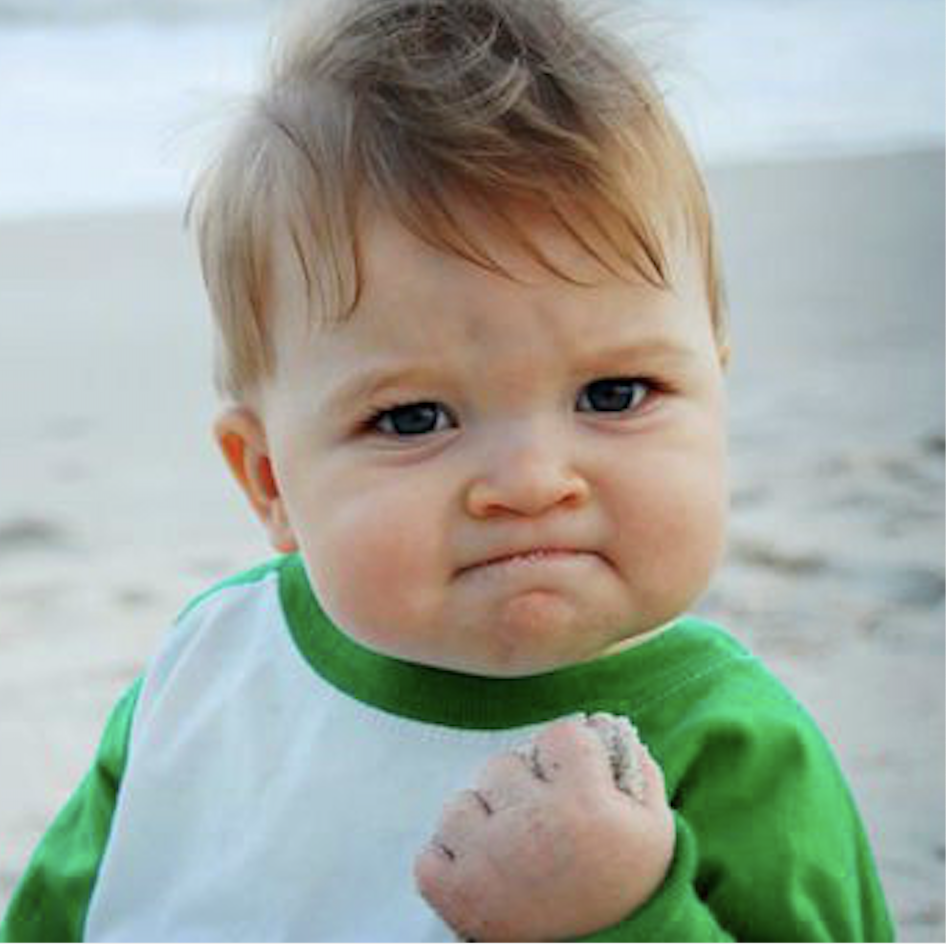
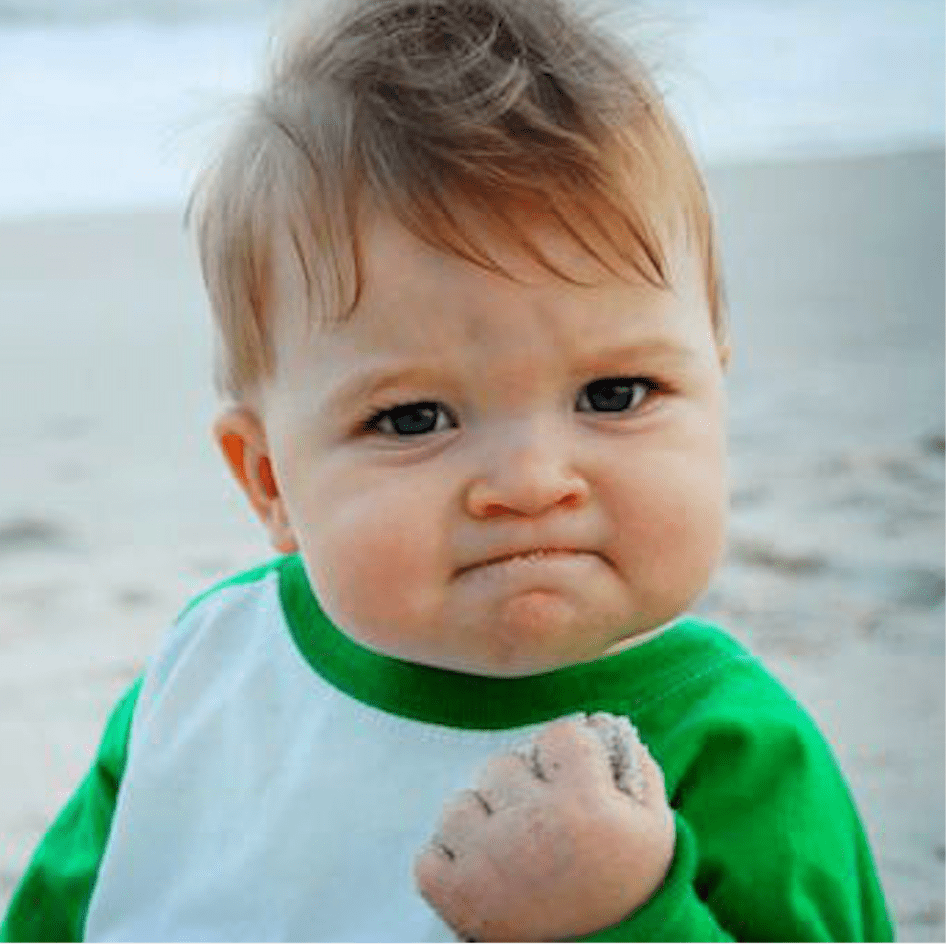
压缩图片

diff --git a/404.html b/404.html
@@ -10,8 +10,8 @@
     <meta property="og:type" content="article">
 
     
-    <meta property="og:image" content="https://zhwjimmy.github.io//img/bg-03.jpeg">
-    <meta property="twitter:image" content="https://zhwjimmy.github.io//img/bg-03.jpeg" />
+    <meta property="og:image" content="https://zhwjimmy.github.io//img/bg.jpeg">
+    <meta property="twitter:image" content="https://zhwjimmy.github.io//img/bg.jpeg" />
     
 
     
@@ -151,7 +151,7 @@
 
 
 
-<header class="intro-header" style="background-image: url('/img/bg-03.jpeg')">
+<header class="intro-header" style="background-image: url('/img/bg.jpeg')">
     <div class="container">
         <div class="row">
             <div class="col-lg-8 col-lg-offset-2 col-md-10 col-md-offset-1 ">

diff --git a/about/index.html b/about/index.html
@@ -10,8 +10,8 @@
     <meta property="og:type" content="article">
 
     
-    <meta property="og:image" content="https://zhwjimmy.github.io//img/bg-03.jpeg">
-    <meta property="twitter:image" content="https://zhwjimmy.github.io//img/bg-03.jpeg" />
+    <meta property="og:image" content="https://zhwjimmy.github.io//img/bg.jpeg">
+    <meta property="twitter:image" content="https://zhwjimmy.github.io//img/bg.jpeg" />
     
 
     
@@ -151,7 +151,7 @@
 
 
 
-<header class="intro-header" style="background-image: url('/img/bg-03.jpeg')">
+<header class="intro-header" style="background-image: url('/img/bg.jpeg')">
     <div class="container">
         <div class="row">
             <div class="col-lg-8 col-lg-offset-2 col-md-10 col-md-offset-1 ">

diff --git a/archive/index.html b/archive/index.html
@@ -10,8 +10,8 @@
     <meta property="og:type" content="article">
 
     
-    <meta property="og:image" content="https://zhwjimmy.github.io//img/bg-03.jpeg">
-    <meta property="twitter:image" content="https://zhwjimmy.github.io//img/bg-03.jpeg" />
+    <meta property="og:image" content="https://zhwjimmy.github.io//img/bg.jpeg">
+    <meta property="twitter:image" content="https://zhwjimmy.github.io//img/bg.jpeg" />
     
 
     
@@ -151,7 +151,7 @@
 
 
 
-<header class="intro-header" style="background-image: url('/img/bg-03.jpeg')">
+<header class="intro-header" style="background-image: url('/img/bg.jpeg')">
     <div class="container">
         <div class="row">
             <div class="col-lg-8 col-lg-offset-2 col-md-10 col-md-offset-1 ">

diff --git a/categories/index.html b/categories/index.html
@@ -10,8 +10,8 @@
     <meta property="og:type" content="article">
 
     
-    <meta property="og:image" content="https://zhwjimmy.github.io//img/bg-03.jpeg">
-    <meta property="twitter:image" content="https://zhwjimmy.github.io//img/bg-03.jpeg" />
+    <meta property="og:image" content="https://zhwjimmy.github.io//img/bg.jpeg">
+    <meta property="twitter:image" content="https://zhwjimmy.github.io//img/bg.jpeg" />
     
 
     
@@ -151,7 +151,7 @@
 
 
 
-<header class="intro-header" style="background-image: url('/img/bg-03.jpeg')">
+<header class="intro-header" style="background-image: url('/img/bg.jpeg')">
     <div class="container">
         <div class="row">
             <div class="col-lg-8 col-lg-offset-2 col-md-10 col-md-offset-1 ">

diff --git a/index.html b/index.html
@@ -11,8 +11,8 @@
     <meta property="og:type" content="article">
 
     
-    <meta property="og:image" content="https://zhwjimmy.github.io//img/bg-03.jpeg">
-    <meta property="twitter:image" content="https://zhwjimmy.github.io//img/bg-03.jpeg" />
+    <meta property="og:image" content="https://zhwjimmy.github.io//img/bg.jpeg">
+    <meta property="twitter:image" content="https://zhwjimmy.github.io//img/bg.jpeg" />
     
 
     
@@ -152,7 +152,7 @@
 
 
 
-<header class="intro-header" style="background-image: url('/img/bg-03.jpeg')">
+<header class="intro-header" style="background-image: url('/img/bg.jpeg')">
     <div class="container">
         <div class="row">
             <div class="col-lg-8 col-lg-offset-2 col-md-10 col-md-offset-1 ">

diff --git a/notes/index.html b/notes/index.html
@@ -10,8 +10,8 @@
     <meta property="og:type" content="article">
 
     
-    <meta property="og:image" content="https://zhwjimmy.github.io//img/bg-03.jpeg">
-    <meta property="twitter:image" content="https://zhwjimmy.github.io//img/bg-03.jpeg" />
+    <meta property="og:image" content="https://zhwjimmy.github.io//img/bg.jpeg">
+    <meta property="twitter:image" content="https://zhwjimmy.github.io//img/bg.jpeg" />
     
 
     
@@ -151,7 +151,7 @@
 
 
 
-<header class="intro-header" style="background-image: url('/img/bg-03.jpeg')">
+<header class="intro-header" style="background-image: url('/img/bg.jpeg')">
     <div class="container">
         <div class="row">
             <div class="col-lg-8 col-lg-offset-2 col-md-10 col-md-offset-1 ">

diff --git a/post/index.html b/post/index.html
@@ -10,8 +10,8 @@
     <meta property="og:type" content="article">
 
     
-    <meta property="og:image" content="https://zhwjimmy.github.io//img/bg-03.jpeg">
-    <meta property="twitter:image" content="https://zhwjimmy.github.io//img/bg-03.jpeg" />
+    <meta property="og:image" content="https://zhwjimmy.github.io//img/bg.jpeg">
+    <meta property="twitter:image" content="https://zhwjimmy.github.io//img/bg.jpeg" />
     
 
     
@@ -151,7 +151,7 @@
 
 
 
-<header class="intro-header" style="background-image: url('/img/bg-03.jpeg')">
+<header class="intro-header" style="background-image: url('/img/bg.jpeg')">
     <div class="container">
         <div class="row">
             <div class="col-lg-8 col-lg-offset-2 col-md-10 col-md-offset-1 ">

diff --git a/search/index.html b/search/index.html
@@ -10,8 +10,8 @@
     <meta property="og:type" content="article">
 
     
-    <meta property="og:image" content="https://zhwjimmy.github.io//img/bg-03.jpeg">
-    <meta property="twitter:image" content="https://zhwjimmy.github.io//img/bg-03.jpeg" />
+    <meta property="og:image" content="https://zhwjimmy.github.io//img/bg.jpeg">
+    <meta property="twitter:image" content="https://zhwjimmy.github.io//img/bg.jpeg" />
     
 
     
@@ -151,7 +151,7 @@
 
 
 
-<header class="intro-header" style="background-image: url('/img/bg-03.jpeg')">
+<header class="intro-header" style="background-image: url('/img/bg.jpeg')">
     <div class="container">
         <div class="row">
             <div class="col-lg-8 col-lg-offset-2 col-md-10 col-md-offset-1 ">

diff --git a/tags/index.html b/tags/index.html
@@ -10,8 +10,8 @@
     <meta property="og:type" content="article">
 
     
-    <meta property="og:image" content="https://zhwjimmy.github.io//img/bg-03.jpeg">
-    <meta property="twitter:image" content="https://zhwjimmy.github.io//img/bg-03.jpeg" />
+    <meta property="og:image" content="https://zhwjimmy.github.io//img/bg.jpeg">
+    <meta property="twitter:image" content="https://zhwjimmy.github.io//img/bg.jpeg" />
     
 
     
@@ -151,7 +151,7 @@
 
 
 
-<header class="intro-header" style="background-image: url('/img/bg-03.jpeg')">
+<header class="intro-header" style="background-image: url('/img/bg.jpeg')">
     <div class="container">
         <div class="row">
             <div class="col-lg-8 col-lg-offset-2 col-md-10 col-md-offset-1 ">

diff --git a/post/chang-hen-ge/index.html b/post/chang-hen-ge/index.html
@@ -10,8 +10,8 @@
     <meta property="og:type" content="article">
 
     
-    <meta property="og:image" content="https://zhwjimmy.github.io//img/bg-03.jpeg">
-    <meta property="twitter:image" content="https://zhwjimmy.github.io//img/bg-03.jpeg" />
+    <meta property="og:image" content="https://zhwjimmy.github.io//img/bg.jpeg">
+    <meta property="twitter:image" content="https://zhwjimmy.github.io//img/bg.jpeg" />
     
 
     
@@ -154,7 +154,7 @@
 
 <style type="text/css">
     header.intro-header {
-        background-image: url('/img/bg-03.jpeg')
+        background-image: url('/img/bg.jpeg')
     }
 </style>
 

diff --git a/post/hugo/index.html b/post/hugo/index.html
@@ -10,8 +10,8 @@
     <meta property="og:type" content="article">
 
     
-    <meta property="og:image" content="https://zhwjimmy.github.io//img/bg-03.jpeg">
-    <meta property="twitter:image" content="https://zhwjimmy.github.io//img/bg-03.jpeg" />
+    <meta property="og:image" content="https://zhwjimmy.github.io//img/bg.jpeg">
+    <meta property="twitter:image" content="https://zhwjimmy.github.io//img/bg.jpeg" />
     
 
     
@@ -154,7 +154,7 @@
 
 <style type="text/css">
     header.intro-header {
-        background-image: url('/img/bg-03.jpeg')
+        background-image: url('/img/bg.jpeg')
     }
 </style>
 

diff --git a/search/placeholder/index.html b/search/placeholder/index.html
@@ -10,8 +10,8 @@
     <meta property="og:type" content="article">
 
     
-    <meta property="og:image" content="https://zhwjimmy.github.io//img/bg-03.jpeg">
-    <meta property="twitter:image" content="https://zhwjimmy.github.io//img/bg-03.jpeg" />
+    <meta property="og:image" content="https://zhwjimmy.github.io//img/bg.jpeg">
+    <meta property="twitter:image" content="https://zhwjimmy.github.io//img/bg.jpeg" />
     
 
     
@@ -154,7 +154,7 @@
 
 <style type="text/css">
     header.intro-header {
-        background-image: url('/img/bg-03.jpeg')
+        background-image: url('/img/bg.jpeg')
     }
 </style>
 
